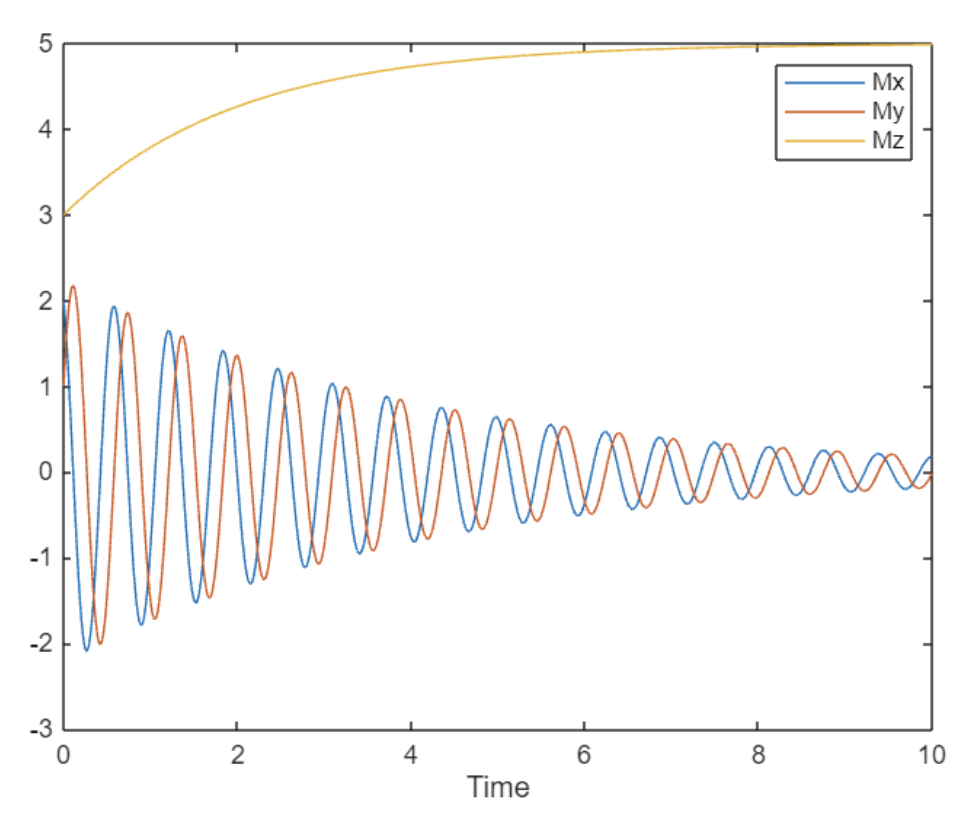
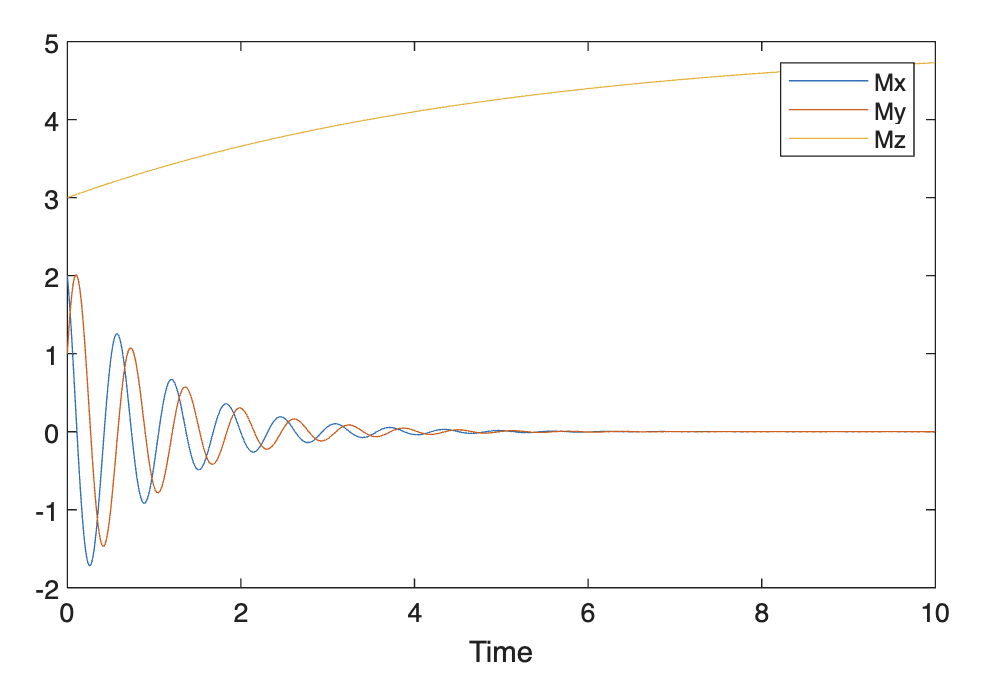
Published Magneticos dinámico

diff --git a/intro.md b/intro.md
@@ -9,6 +9,6 @@ Las notas están pensadas para que puedan actualizarse y mejorarse a medida que 
 ```{tableofcontents}
 ```
 
-*Ultima actualización: 13/05/2026*
+*Ultima actualización: 19/05/2026*
 
 © 2026. This work is openly licensed via [CC-BY-NC-ND](https://creativecommons.org/licenses/by-nc-nd/4.0/).
